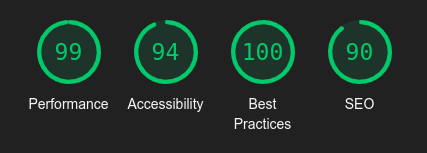
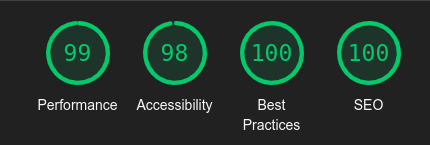
Update README testing part and add accessibility report; modify navbar link and form input name

diff --git a/index.html b/index.html
@@ -20,7 +20,7 @@
     <!-- Navbar -->
     <nav class="navbar navbar-expand-lg fixed-top">
         <div class="container">
-            <a class="navbar-brand" href="#">Wellness One</a>
+            <a class="navbar-brand" href="#home">Wellness One</a>
             <button class="navbar-toggler" type="button" data-bs-toggle="collapse" data-bs-target="#navbarNav"
                 aria-controls="navbarNav" aria-expanded="false" aria-label="Toggle navigation">
                 <span class="navbar-toggler-icon"></span>
@@ -190,7 +190,7 @@
                     <p>Stay updated with our latest mental health tips.</p>
                     <form action="#" method="post">
                         <div class="input-group">
-                            <input type="email" class="form-control" placeholder="Email" required>
+                            <input type="email" name="signup" class="form-control" placeholder="Email" required>
                             <button class="btn btn-primary" type="submit">Sign Up</button>
                         </div>
                     </form>

diff --git a/TESTING.md b/TESTING.md
@@ -1,32 +1,30 @@
 Manual testing was carried out throughout the development of the website and note all the bugs found in [Bugs & Fixes](https://github.com/catrinlam/wellness-one#unfixed-bugs)
 
-| Location           | Feature                 | Expected Outcome                                                                                                                                  | Pass/Fail | Notes |
-| ------------------ | ----------------------- | ------------------------------------------------------------------------------------------------------------------------------------------------- | --------- | ----- |
-|                    | Page Load               | Ensure page loads without errors.                                                                                                                 |           |       |
-|                    | Page Load               | Check the favicon appears correctly in the browser tab.                                                                                           |           |       |
-|                    | Responsive Design       | Test the website on multiple screen sizes (mobile, tablet, desktop).                                                                              |           |       |
-|                    | Browser Compatibility   | Test the website on modern browsers (Chrome, Firefox, Edge, Safari) and their older versions.                                                     |           |       |
-|                    | Mobile Tests            | Ensure buttons and links are easily tappable (minimum size: 48px x 48px).                                                                         |           |       |
-|                    | Mobile Tests            | Confirm the fixed navbar does not obstruct any content on mobile devices.                                                                         |           |       |
-|                    | Responsive Design       | Check that the navbar, sections, and buttons adjust correctly.                                                                                    |           |       |
-|                    | Links                   | Verify all internal links (e.g., #home, #mental-health-info) navigate to the correct sections.                                                    |           |       |
-|                    | Links                   | Ensure external links (e.g., mind.org.uk, samaritans.org) open in a new tab (target="_blank") and are functional.                                 |           |       |
-|                    | Links                   | Ensure all external links have rel="noopener noreferrer" for security.                                                                            |           |       |
-|                    | Links                   | Test phone links (tel:) initiate a call on mobile devices.                                                                                        |           |       |
-|                    | Accessibility           | Ensure all the text and icons pass the colour contrast test with [WCAG Color Contrast Checker](https://accessibleweb.com/color-contrast-checker/) |           |       |
-|                    | Accessibility           | Ensure the website pass the lighthouse testing                                                                                                    |           |       |
-|                    | SEO Functionality       | Verify meta tags (keywords, description, author) are relevant.                                                                                    |           |       |
-|                    | Button                  | Confirm all buttons (e.g., "Explore More", "Find Support", "Sign Up") perform the intended action.                                                |           |       |
-| NavBar             | Menu                    | Verify the hamburger menu works properly on smaller devices.                                                                                      |           |       |
-| Landing            | Hero Image              | Verify the hero image displays correctly.                                                                                                         |           |       |
-| Landing            | Overlay                 | Check the text remains legible with the overlay.                                                                                                  |           |       |
-| Landing            | "Explore More" Button   | Ensure the button scrolls to the "Mental Health Info" section.                                                                                    |           |       |
-| Mental Health Info | Accordion Functionality | Ensure the accordion expands/collapses correctly.                                                                                                 |           |       |
-| Mental Health Info | Content                 | Confirm the text in each accordion is displayed correctly.                                                                                        |           |       |
-| Resources          | Organisations Links     | Verify all links in the cards open the correct external resources in a new tab.                                                                   |           |       |
-| Resources          | Emergency               | Ensure the "Emergency" card displays.                                                                                                             |           |       |
-| Footer             | Contact Links           | Check email links (mailto:) open the user’s email client.                                                                                         |           |       |
-| Footer             | Social Icons            | Verify the social media icons redirect to the correct platforms.                                                                                  |           |       |
-| Footer             | Social Icons            | Confirm the icons are accessible and have meaningful aria-labels.                                                                                 |           |       |
-| Footer             | Newsletter Form         | Verify the form accepts valid email addresses and displays an error for invalid inputs.                                                           |           |       |
-| Footer             | Newsletter Form         | Check the website handles situations like submitting an empty form                                                                                |           |
+| Location           | Feature                 | Expected Outcome                                                                                                                                  | Pass/Fail | Notes                                                                      |
+| ------------------ | ----------------------- | ------------------------------------------------------------------------------------------------------------------------------------------------- | --------- | -------------------------------------------------------------------------- |
+|                    | Page Load               | Ensure page loads without errors.                                                                                                                 | Pass      |                                                                            |
+|                    | Page Load               | Check the favicon appears correctly in the browser tab.                                                                                           | Pass      |                                                                            |
+|                    | Responsive Design       | Test the website on multiple screen sizes (mobile, tablet, desktop).                                                                              | Pass      |                                                                            |
+|                    | Browser Compatibility   | Test the website on modern browsers (Chrome, Firefox, Edge, Safari) and their older versions.                                                     | Pass      |                                                                            |
+|                    | Mobile Tests            | Ensure buttons and links are easily tappable (minimum size: 48px x 48px).                                                                         | Pass      |                                                                            |
+|                    | Mobile Tests            | Confirm the fixed navbar does not obstruct any content on mobile devices.                                                                         | Pass      |                                                                            |
+|                    | Responsive Design       | Check that the navbar, sections, and buttons adjust correctly.                                                                                    | Pass      |                                                                            |
+|                    | Links                   | Verify all internal links (e.g., #home, #mental-health-info) navigate to the correct sections.                                                    | Pass      |                                                                            |
+|                    | Links                   | Ensure external links (e.g., mind.org.uk, samaritans.org) open in a new tab (target="_blank") and are functional.                                 | Pass      |                                                                            |
+|                    | Links                   | Ensure all external links have rel="noopener noreferrer" for security.                                                                            | Pass      |                                                                            |
+|                    | Links                   | Test phone links (tel:) initiate a call on mobile devices.                                                                                        | Pass      |                                                                            |
+|                    | Accessibility           | Ensure all the text and icons pass the colour contrast test with [WCAG Color Contrast Checker](https://accessibleweb.com/color-contrast-checker/) | Pass      |                                                                            |
+|                    | SEO Functionality       | Verify meta tags (keywords, description, author) are relevant.                                                                                    | Pass      |                                                                            |
+|                    | Button                  | Confirm all buttons (e.g., "Explore More", "Find Support", "Sign Up") perform the intended action.                                                | Pass      |                                                                            |
+| NavBar             | Menu                    | Verify the hamburger menu works properly on smaller devices.                                                                                      | Pass      |                                                                            |
+| Landing            | Hero Image              | Verify the hero image displays correctly.                                                                                                         | Pass      | The test is showing but in the future maybe try dimmer the image even more |
+| Landing            | Overlay                 | Check the text remains legible with the overlay.                                                                                                  | Pass      |                                                                            |
+| Mental Health Info | Accordion Functionality | Ensure the accordion expands/collapses correctly.                                                                                                 | Pass      |                                                                            |
+| Mental Health Info | Content                 | Confirm the text in each accordion is displayed correctly.                                                                                        | Pass      |                                                                            |
+| Resources          | Organisations Links     | Verify all links in the cards open the correct external resources in a new tab.                                                                   | Pass      |                                                                            |
+| Resources          | Emergency               | Ensure the "Emergency" card displays.                                                                                                             | Pass      |                                                                            |
+| Footer             | Contact Links           | Check email links (mailto:) open the user’s email client.                                                                                         | Pass      |                                                                            |
+| Footer             | Social Icons            | Verify the social media icons redirect to the correct platforms.                                                                                  | Pass      |                                                                            |
+| Footer             | Social Icons            | Confirm the icons are accessible and have meaningful aria-labels.                                                                                 | Pass      |                                                                            |
+| Footer             | Newsletter Form         | Verify the form accepts valid email addresses and displays an error for invalid inputs.                                                           | Pass      |                                                                            |
+| Footer             | Newsletter Form         | Check the website handles situations like submitting an empty form                                                                                | Pass      |

diff --git a/README.md b/README.md
@@ -126,7 +126,7 @@ In this section, you should go over the different parts of your project, and des
 ## Testing
 
 ### Functional Testing
-- Please see [TESTING.md](TESTING.md) file for all testing.
+- Please see [TESTING.md](TESTING.md) file for all manual testing.
 
 ### Lighthouse Results
 - Desktop Lighthouse Report:
@@ -135,7 +135,13 @@ In this section, you should go over the different parts of your project, and des
 
 - Mobile Lighthouse Report:
 
-![Mobile Report](assets/images/mobile-lighthouse-report.png)
+![Mobile Report](assets/images/mobile-lighthouse.png)
+
+### [WCAG Accessible Web Helper](https://chromewebstore.google.com/detail/accessible-web-helper/gdnpkbipbholkoaggmlblpbmgemddbgb)
+
+Accessible Report:
+
+![Accessible Report](assets/images/accessible-report.png)
 
 ### Validator Testing
 
